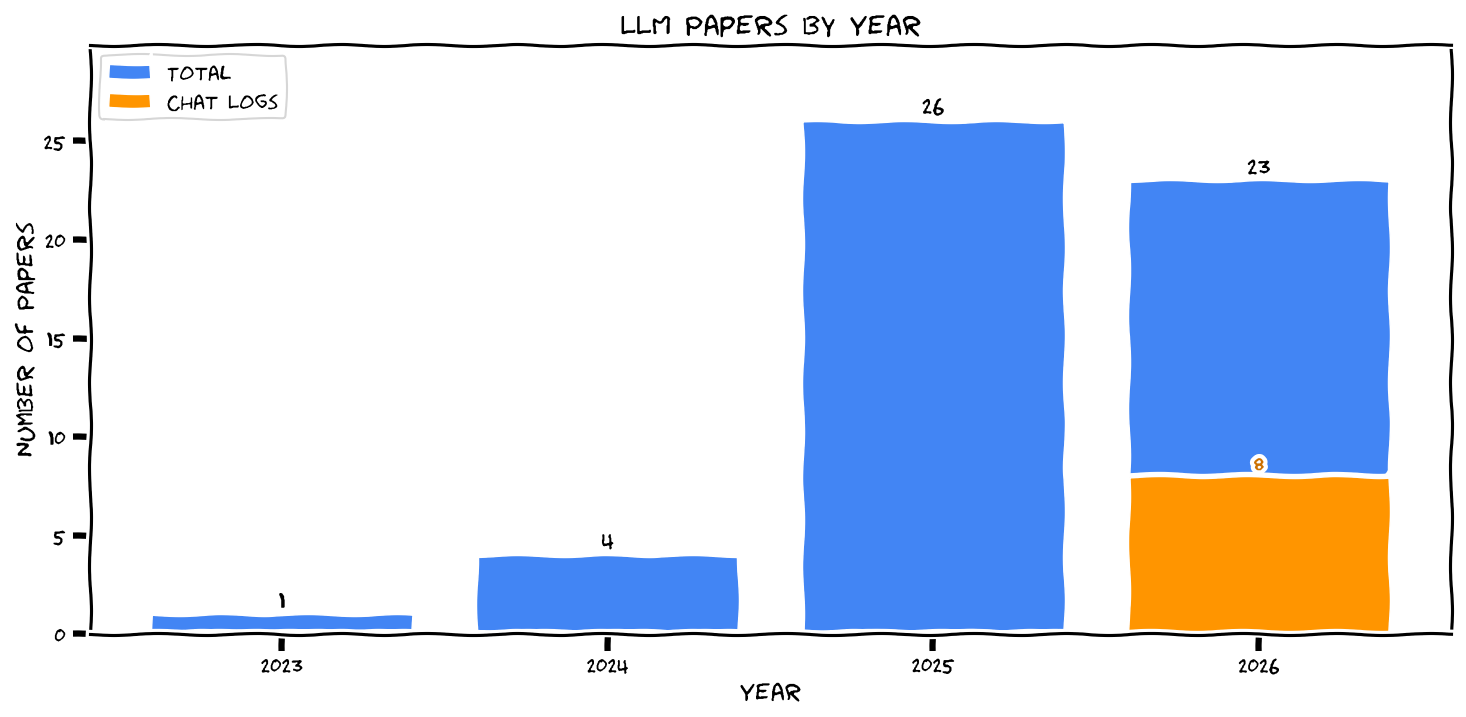
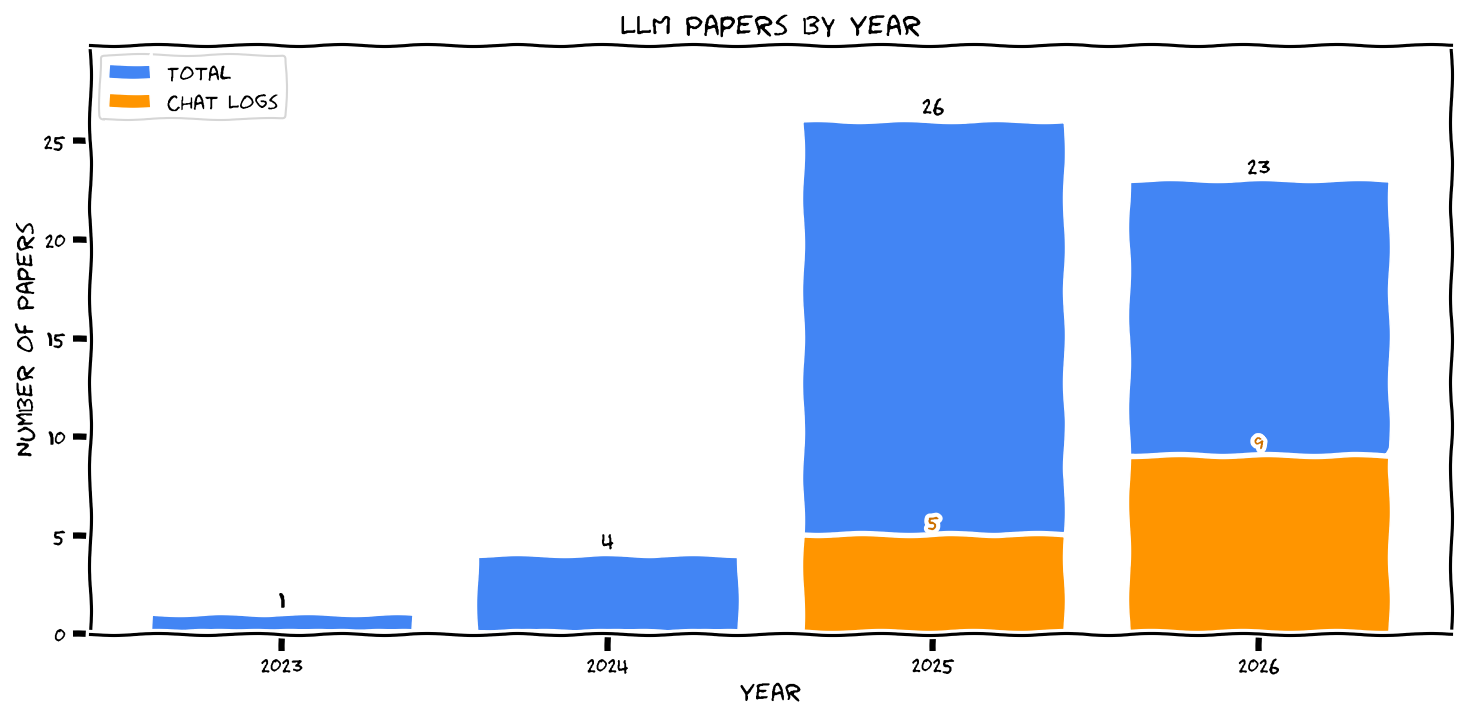
Add more LLM chat log links

Changed region(s): [[0.5218, 0.7057, 0.7367, 0.8898], [0.7674, 0.6137, 0.9516, 0.675]]

diff --git a/README.md b/README.md
@@ -17,11 +17,11 @@ See [`CONTRIBUTING.md`](https://github.com/seewoo5/awesome-ai-for-math/blob/main
 | **[A Machine Learning Approach That Beats Large Rubik's Cubes](https://arxiv.org/abs/2502.13266)** | [Graph Theory](./subjects/graph-theory.md), [Group Theory](./subjects/group-theory.md), [RL](./subjects/rl.md) | arXiv 2025 | [Code](https://github.com/cayleypy/cayleypy) |
 | **[A Systematization of the Wagner Framework: Graph Theory Conjectures and Reinforcement Learning](https://doi.org/10.1007/978-3-031-78977-9_21)** | [Graph Theory](./subjects/graph-theory.md), [RL](./subjects/rl.md) | Discovery Science 2025 | [Code](https://github.com/CuriosAI/graph_conjectures) [arXiv](https://arxiv.org/abs/2406.12667) |
 | **[ABC implies that Ramanujan's tau function misses almost all primes](https://arxiv.org/abs/2603.29970)** | [Number Theory](./subjects/number-theory.md), [ATP](./subjects/atp.md) | arXiv 2026 | [Code](https://github.com/AxiomMath/ramanujan-tau-misses-primes) |
-| **[Accelerating mathematical research with language models: A case study of an interaction with GPT-5-Pro on a convex analysis problem](https://arxiv.org/abs/2510.26647)** | [Analysis](./subjects/analysis.md), [LLM](./subjects/llm.md) | arXiv 2025 |  |
+| **[Accelerating mathematical research with language models: A case study of an interaction with GPT-5-Pro on a convex analysis problem](https://arxiv.org/abs/2510.26647)** | [Analysis](./subjects/analysis.md), [LLM](./subjects/llm.md) | arXiv 2025 | [Chat Logs](https://arxiv.org/abs/2510.26647) |
 | **[Advancing mathematics by guiding human intuition with AI](https://www.nature.com/articles/s41586-021-04086-x)** | [Knot Theory](./subjects/knot-theory.md), [Representation Theory](./subjects/representation-theory.md) | Nature 2021 | [Code](https://github.com/google-deepmind/mathematics_conjectures) |
 | **[Agentic Neurosymbolic Collaboration for Mathematical Discovery: A Case Study in Combinatorial Design](https://arxiv.org/abs/2603.08322)** | [Combinatorics](./subjects/combinatorics.md), [LLM](./subjects/llm.md), [ATP](./subjects/atp.md) | arXiv 2026 |  |
-| **[AI Mathematician as a Partner in Advancing Mathematical Discovery -- A Case Study in Homogenization Theory](https://arxiv.org/abs/2510.26380)** | [Analysis](./subjects/analysis.md), [LLM](./subjects/llm.md) | arXiv 2025 |  |
-| **[AI Mathematician: Towards Fully Automated Frontier Mathematical Research](https://arxiv.org/abs/2505.22451)** | [Analysis](./subjects/analysis.md), [LLM](./subjects/llm.md) | arXiv 2025 |  |
+| **[AI Mathematician as a Partner in Advancing Mathematical Discovery -- A Case Study in Homogenization Theory](https://arxiv.org/abs/2510.26380)** | [Analysis](./subjects/analysis.md), [LLM](./subjects/llm.md) | arXiv 2025 | [Chat Logs](https://arxiv.org/abs/2510.26380) |
+| **[AI Mathematician: Towards Fully Automated Frontier Mathematical Research](https://arxiv.org/abs/2505.22451)** | [Analysis](./subjects/analysis.md), [LLM](./subjects/llm.md) | arXiv 2025 | [Chat Logs](https://arxiv.org/abs/2505.22451) |
 | **[AI-driven research in pure mathematics and theoretical physics](https://www.nature.com/articles/s42254-024-00740-1)** | [Survey](./subjects/survey.md) | Nature Reviews Physics 2025 |  |
 | **[Aletheia tackles FirstProof autonomously](https://arxiv.org/abs/2602.21201)** | [LLM](./subjects/llm.md), [Benchmark](./subjects/benchmark.md) | arXiv 2026 | [Chat Logs](https://github.com/google-deepmind/superhuman/tree/main/aletheia) |
 | **[Algorithm Discovery With LLMs: Evolutionary Search Meets Reinforcement Learning](https://arxiv.org/abs/2504.05108)** | [Combinatorics](./subjects/combinatorics.md), [LLM](./subjects/llm.md), [RL](./subjects/rl.md) | arXiv 2025 | [Code](https://github.com/CLAIRE-Labo/EvoTune) |
@@ -44,13 +44,13 @@ See [`CONTRIBUTING.md`](https://github.com/seewoo5/awesome-ai-for-math/blob/main
 | **[Dead ends in square-free digit walks](https://arxiv.org/abs/2602.05095)** | [Number Theory](./subjects/number-theory.md), [ATP](./subjects/atp.md) | arXiv 2026 | [Code](https://github.com/AxiomMath/dead-ends) |
 | **[Deep Learning for Symbolic Mathematics](https://openreview.net/forum?id=S1eZYeHFDS)** | [Differential Equations](./subjects/differential-equations.md), [Symbolic Computation](./subjects/symbolic-computation.md), [Transformer](./subjects/transformer.md) | ICLR 2020 | [Code](https://github.com/facebookresearch/SymbolicMathematics) |
 | **[Discovery of Unstable Singularities](https://arxiv.org/abs/2509.14185)** | [Differential Equations](./subjects/differential-equations.md), [PINN](./subjects/pinn.md) | arXiv 2025 |  |
-| **[Early science acceleration experiments with GPT-5](https://arxiv.org/abs/2511.16072)** | [Combinatorics](./subjects/combinatorics.md), [Optimization Theory](./subjects/optimization-theory.md), [LLM](./subjects/llm.md) | arXiv 2025 |  |
+| **[Early science acceleration experiments with GPT-5](https://arxiv.org/abs/2511.16072)** | [Combinatorics](./subjects/combinatorics.md), [Optimization Theory](./subjects/optimization-theory.md), [LLM](./subjects/llm.md) | arXiv 2025 | [Chat Logs](https://arxiv.org/abs/2511.16072) |
 | **[Eigenweights for arithmetic Hirzebruch Proportionality](https://arxiv.org/abs/2601.23245)** | [Number Theory](./subjects/number-theory.md), [Representation Theory](./subjects/representation-theory.md), [LLM](./subjects/llm.md) | arXiv 2026 | [Chat Logs](https://github.com/google-deepmind/superhuman/tree/main/aletheia) |
 | **[Equality in Fill's spectral gap problem](https://arxiv.org/abs/2604.03937)** | [Combinatorics](./subjects/combinatorics.md), [LLM](./subjects/llm.md) | arXiv 2026 |  |
 | **[EternalMath: A Living Benchmark of Frontier Mathematics that Evolves with Human Discovery](https://arxiv.org/abs/2601.01400)** | [Benchmark](./subjects/benchmark.md), [LLM](./subjects/llm.md) | arXiv 2026 |  |
 | **[Even with AI, Bijection Discovery is Still Hard: The Opportunities and Challenges of OpenEvolve for Novel Bijection Construction](https://arxiv.org/abs/2511.20987)** | [Combinatorics](./subjects/combinatorics.md), [LLM](./subjects/llm.md) | arXiv 2025 |  |
 | **[Evolving Ranking Functions for Canonical Blow-Ups in Positive Characteristic](https://arxiv.org/abs/2602.06553)** | [Algebraic Geometry](./subjects/algebraic-geometry.md), [LLM](./subjects/llm.md) | arXiv 2026 |  |
-| **[Extremal descendant integrals on moduli spaces of curves: An inequality discovered and proved in collaboration with AI](https://arxiv.org/abs/2512.14575)** | [Algebraic Geometry](./subjects/algebraic-geometry.md), [ATP](./subjects/atp.md), [LLM](./subjects/llm.md) | arXiv 2025 | [Code](https://github.com/schmittj/balanced-vectors-blueprint) |
+| **[Extremal descendant integrals on moduli spaces of curves: An inequality discovered and proved in collaboration with AI](https://arxiv.org/abs/2512.14575)** | [Algebraic Geometry](./subjects/algebraic-geometry.md), [ATP](./subjects/atp.md), [LLM](./subjects/llm.md) | arXiv 2025 | [Code](https://github.com/schmittj/balanced-vectors-blueprint) [Chat Logs](https://arxiv.org/abs/2512.14575) |
 | **[Fel's Conjecture on Syzygies of Numerical Semigroups](https://arxiv.org/abs/2602.03716)** | [Combinatorics](./subjects/combinatorics.md), [Algebra](./subjects/algebra.md), [Number Theory](./subjects/number-theory.md), [ATP](./subjects/atp.md) | arXiv 2026 | [Code](https://github.com/AxiomMath/fel-polynomial) |
 | **[FIMO: A Challenge Formal Dataset for Automated Theorem Proving](https://arxiv.org/abs/2309.04295)** | [Benchmark](./subjects/benchmark.md), [ATP](./subjects/atp.md) | arXiv 2023 |  |
 | **[First Proof](https://arxiv.org/abs/2602.05192)** | [Benchmark](./subjects/benchmark.md), [LLM](./subjects/llm.md) | arXiv 2026 | [Website](https://1stproof.org/) |
@@ -133,7 +133,7 @@ See [`CONTRIBUTING.md`](https://github.com/seewoo5/awesome-ai-for-math/blob/main
 | **[R-equivalence on Cubic Surfaces I: Existing Cases with Non-Trivial Universal Equivalence](https://arxiv.org/abs/2603.19215)** | [Algebraic Geometry](./subjects/algebraic-geometry.md), [LLM](./subjects/llm.md) | arXiv 2026 |  |
 | **[Ranks of elliptic curves and deep neural networks](https://link.springer.com/article/10.1007/s40993-023-00462-w)** | [Number Theory](./subjects/number-theory.md), [CNN](./subjects/cnn.md) | Research in Number Theory 2023 | [Code](https://github.com/domagojvlah/deepellrank) |
 | **[RealMath: A Continuous Benchmark for Evaluating Language Models on Research-Level Mathematics](https://arxiv.org/abs/2505.12575)** | [Benchmark](./subjects/benchmark.md), [LLM](./subjects/llm.md) | NeurIPS 2025 |  |
-| **[Recursive-algebraic solution of the closed string tachyon vacuum equation](https://arxiv.org/abs/2603.29926)** | [Mathematical Physics](./subjects/mathematical-physics.md), [LLM](./subjects/llm.md) | arXiv 2026 | [Code](https://github.com/mk2427/csft-tachyon-vacuum) |
+| **[Recursive-algebraic solution of the closed string tachyon vacuum equation](https://arxiv.org/abs/2603.29926)** | [Mathematical Physics](./subjects/mathematical-physics.md), [LLM](./subjects/llm.md) | arXiv 2026 | [Code](https://github.com/mk2427/csft-tachyon-vacuum) [Chat Logs](https://github.com/mk2427/csft-tachyon-vacuum) |
 | **[Reinforced Generation of Combinatorial Structures: Hardness of Approximation](https://arxiv.org/abs/2509.18057)** | [Computational Complexity](./subjects/computational-complexity.md), [Combinatorics](./subjects/combinatorics.md), [LLM](./subjects/llm.md) | arXiv 2025 |  |
 | **[Reinforcement Learning the Chromatic Symmetric Function](https://arxiv.org/abs/2410.19189)** | [Graph Theory](./subjects/graph-theory.md), [RL](./subjects/rl.md) | arXiv 2024 | [Code](https://github.com/berczig/PositivityConjectures) |
 | **[Resolution of Erdős Problem #728: a writeup of Aristotle's Lean proof](https://arxiv.org/abs/2601.07421)** | [Number Theory](./subjects/number-theory.md), [LLM](./subjects/llm.md), [ATP](./subjects/atp.md) | arXiv 2026 |  |

diff --git a/subjects/llm.md b/subjects/llm.md
@@ -7,10 +7,10 @@ layout: default
 
 | Title | Subject(s) | Venue & Year | Links & Resources |
 | :--- | :--- | :--- | :--- |
-| **[Accelerating mathematical research with language models: A case study of an interaction with GPT-5-Pro on a convex analysis problem](https://arxiv.org/abs/2510.26647)** | [Analysis](analysis.md), [LLM](llm.md) | arXiv 2025 |  |
+| **[Accelerating mathematical research with language models: A case study of an interaction with GPT-5-Pro on a convex analysis problem](https://arxiv.org/abs/2510.26647)** | [Analysis](analysis.md), [LLM](llm.md) | arXiv 2025 | [Chat Logs](https://arxiv.org/abs/2510.26647) |
 | **[Agentic Neurosymbolic Collaboration for Mathematical Discovery: A Case Study in Combinatorial Design](https://arxiv.org/abs/2603.08322)** | [Combinatorics](combinatorics.md), [LLM](llm.md), [ATP](atp.md) | arXiv 2026 |  |
-| **[AI Mathematician as a Partner in Advancing Mathematical Discovery -- A Case Study in Homogenization Theory](https://arxiv.org/abs/2510.26380)** | [Analysis](analysis.md), [LLM](llm.md) | arXiv 2025 |  |
-| **[AI Mathematician: Towards Fully Automated Frontier Mathematical Research](https://arxiv.org/abs/2505.22451)** | [Analysis](analysis.md), [LLM](llm.md) | arXiv 2025 |  |
+| **[AI Mathematician as a Partner in Advancing Mathematical Discovery -- A Case Study in Homogenization Theory](https://arxiv.org/abs/2510.26380)** | [Analysis](analysis.md), [LLM](llm.md) | arXiv 2025 | [Chat Logs](https://arxiv.org/abs/2510.26380) |
+| **[AI Mathematician: Towards Fully Automated Frontier Mathematical Research](https://arxiv.org/abs/2505.22451)** | [Analysis](analysis.md), [LLM](llm.md) | arXiv 2025 | [Chat Logs](https://arxiv.org/abs/2505.22451) |
 | **[Aletheia tackles FirstProof autonomously](https://arxiv.org/abs/2602.21201)** | [LLM](llm.md), [Benchmark](benchmark.md) | arXiv 2026 | [Chat Logs](https://github.com/google-deepmind/superhuman/tree/main/aletheia) |
 | **[Algorithm Discovery With LLMs: Evolutionary Search Meets Reinforcement Learning](https://arxiv.org/abs/2504.05108)** | [Combinatorics](combinatorics.md), [LLM](llm.md), [RL](rl.md) | arXiv 2025 | [Code](https://github.com/CLAIRE-Labo/EvoTune) |
 | **[AlphaEvolve: A coding agent for scientific and algorithmic discovery](https://arxiv.org/abs/2506.13131)** | [Matrix Multiplication](matrix-multiplication.md), [Analysis](analysis.md), [Combinatorics](combinatorics.md), [Discrete Geometry](discrete-geometry.md), [LLM](llm.md) | arXiv 2025 | [Unofficial Code](https://github.com/codelion/openevolve) |
@@ -18,13 +18,13 @@ layout: default
 | **[Arithmetic volumes of moduli stacks of Shtukas](https://arxiv.org/abs/2601.18557)** | [Number Theory](number-theory.md), [Algebraic Geometry](algebraic-geometry.md), [LLM](llm.md) | arXiv 2026 | [Chat Logs](https://github.com/google-deepmind/superhuman/tree/main/aletheia) |
 | **[Counterexample to majority optimality in NICD with erasures](https://arxiv.org/abs/2510.20013)** | [Analysis](analysis.md), [LLM](llm.md) | arXiv 2025 |  |
 | **[Counting partial Hadamard matrices in the cubic regime](https://arxiv.org/abs/2603.30013)** | [Combinatorics](combinatorics.md), [LLM](llm.md) | arXiv 2026 |  |
-| **[Early science acceleration experiments with GPT-5](https://arxiv.org/abs/2511.16072)** | [Combinatorics](combinatorics.md), [Optimization Theory](optimization-theory.md), [LLM](llm.md) | arXiv 2025 |  |
+| **[Early science acceleration experiments with GPT-5](https://arxiv.org/abs/2511.16072)** | [Combinatorics](combinatorics.md), [Optimization Theory](optimization-theory.md), [LLM](llm.md) | arXiv 2025 | [Chat Logs](https://arxiv.org/abs/2511.16072) |
 | **[Eigenweights for arithmetic Hirzebruch Proportionality](https://arxiv.org/abs/2601.23245)** | [Number Theory](number-theory.md), [Representation Theory](representation-theory.md), [LLM](llm.md) | arXiv 2026 | [Chat Logs](https://github.com/google-deepmind/superhuman/tree/main/aletheia) |
 | **[Equality in Fill's spectral gap problem](https://arxiv.org/abs/2604.03937)** | [Combinatorics](combinatorics.md), [LLM](llm.md) | arXiv 2026 |  |
 | **[EternalMath: A Living Benchmark of Frontier Mathematics that Evolves with Human Discovery](https://arxiv.org/abs/2601.01400)** | [Benchmark](benchmark.md), [LLM](llm.md) | arXiv 2026 |  |
 | **[Even with AI, Bijection Discovery is Still Hard: The Opportunities and Challenges of OpenEvolve for Novel Bijection Construction](https://arxiv.org/abs/2511.20987)** | [Combinatorics](combinatorics.md), [LLM](llm.md) | arXiv 2025 |  |
 | **[Evolving Ranking Functions for Canonical Blow-Ups in Positive Characteristic](https://arxiv.org/abs/2602.06553)** | [Algebraic Geometry](algebraic-geometry.md), [LLM](llm.md) | arXiv 2026 |  |
-| **[Extremal descendant integrals on moduli spaces of curves: An inequality discovered and proved in collaboration with AI](https://arxiv.org/abs/2512.14575)** | [Algebraic Geometry](algebraic-geometry.md), [ATP](atp.md), [LLM](llm.md) | arXiv 2025 | [Code](https://github.com/schmittj/balanced-vectors-blueprint) |
+| **[Extremal descendant integrals on moduli spaces of curves: An inequality discovered and proved in collaboration with AI](https://arxiv.org/abs/2512.14575)** | [Algebraic Geometry](algebraic-geometry.md), [ATP](atp.md), [LLM](llm.md) | arXiv 2025 | [Code](https://github.com/schmittj/balanced-vectors-blueprint) [Chat Logs](https://arxiv.org/abs/2512.14575) |
 | **[First Proof](https://arxiv.org/abs/2602.05192)** | [Benchmark](benchmark.md), [LLM](llm.md) | arXiv 2026 | [Website](https://1stproof.org/) |
 | **[Forbidden Sidon subsets of perfect difference sets, featuring a human-assisted proof](https://arxiv.org/abs/2510.19804)** | [Combinatorics](combinatorics.md), [Number Theory](number-theory.md), [LLM](llm.md), [ATP](atp.md) | arXiv 2025 | [Code](https://borisalexeev.com/papers/Erdos707.lean) |
 | **[FormalMATH: Benchmarking Formal Mathematical Reasoning of Large Language Models](https://arxiv.org/abs/2505.02735)** | [Benchmark](benchmark.md), [ATP](atp.md), [LLM](llm.md) | arXiv 2025 | [Website](https://spherelab.ai/FormalMATH/) |
@@ -50,7 +50,7 @@ layout: default
 | **[Putnam-AXIOM: A Functional and Static Benchmark for Measuring Higher Level Mathematical Reasoning in LLMs](https://arxiv.org/abs/2508.08292)** | [Benchmark](benchmark.md), [LLM](llm.md) | arXiv 2025 |  |
 | **[R-equivalence on Cubic Surfaces I: Existing Cases with Non-Trivial Universal Equivalence](https://arxiv.org/abs/2603.19215)** | [Algebraic Geometry](algebraic-geometry.md), [LLM](llm.md) | arXiv 2026 |  |
 | **[RealMath: A Continuous Benchmark for Evaluating Language Models on Research-Level Mathematics](https://arxiv.org/abs/2505.12575)** | [Benchmark](benchmark.md), [LLM](llm.md) | NeurIPS 2025 |  |
-| **[Recursive-algebraic solution of the closed string tachyon vacuum equation](https://arxiv.org/abs/2603.29926)** | [Mathematical Physics](mathematical-physics.md), [LLM](llm.md) | arXiv 2026 | [Code](https://github.com/mk2427/csft-tachyon-vacuum) |
+| **[Recursive-algebraic solution of the closed string tachyon vacuum equation](https://arxiv.org/abs/2603.29926)** | [Mathematical Physics](mathematical-physics.md), [LLM](llm.md) | arXiv 2026 | [Code](https://github.com/mk2427/csft-tachyon-vacuum) [Chat Logs](https://github.com/mk2427/csft-tachyon-vacuum) |
 | **[Reinforced Generation of Combinatorial Structures: Hardness of Approximation](https://arxiv.org/abs/2509.18057)** | [Computational Complexity](computational-complexity.md), [Combinatorics](combinatorics.md), [LLM](llm.md) | arXiv 2025 |  |
 | **[Resolution of Erdős Problem #728: a writeup of Aristotle's Lean proof](https://arxiv.org/abs/2601.07421)** | [Number Theory](number-theory.md), [LLM](llm.md), [ATP](atp.md) | arXiv 2026 |  |
 | **[Semi-Autonomous Mathematics Discovery with Gemini: A Case Study on the Erdős Problems](https://arxiv.org/abs/2601.22401)** | [Combinatorics](combinatorics.md), [Number Theory](number-theory.md), [LLM](llm.md) | arXiv 2026 | [Chat Logs](https://github.com/google-deepmind/superhuman/tree/main/aletheia) |

diff --git a/subjects/algebraic-geometry.md b/subjects/algebraic-geometry.md
@@ -11,7 +11,7 @@ layout: default
 | **[Arithmetic volumes of moduli stacks of Shtukas](https://arxiv.org/abs/2601.18557)** | [Number Theory](number-theory.md), [Algebraic Geometry](algebraic-geometry.md), [LLM](llm.md) | arXiv 2026 | [Chat Logs](https://github.com/google-deepmind/superhuman/tree/main/aletheia) |
 | **[Can Transformers Do Enumerative Geometry?](https://proceedings.iclr.cc/paper_files/paper/2025/file/aee2f03ecb2b2c1ea55a43946b651cfd-Paper-Conference.pdf)** | [Algebraic Geometry](algebraic-geometry.md), [Interpretability](interpretability.md), [Transformer](transformer.md) | ICLR 2025 | [Code](https://github.com/Baran-phys/DynamicFormer) |
 | **[Evolving Ranking Functions for Canonical Blow-Ups in Positive Characteristic](https://arxiv.org/abs/2602.06553)** | [Algebraic Geometry](algebraic-geometry.md), [LLM](llm.md) | arXiv 2026 |  |
-| **[Extremal descendant integrals on moduli spaces of curves: An inequality discovered and proved in collaboration with AI](https://arxiv.org/abs/2512.14575)** | [Algebraic Geometry](algebraic-geometry.md), [ATP](atp.md), [LLM](llm.md) | arXiv 2025 | [Code](https://github.com/schmittj/balanced-vectors-blueprint) |
+| **[Extremal descendant integrals on moduli spaces of curves: An inequality discovered and proved in collaboration with AI](https://arxiv.org/abs/2512.14575)** | [Algebraic Geometry](algebraic-geometry.md), [ATP](atp.md), [LLM](llm.md) | arXiv 2025 | [Code](https://github.com/schmittj/balanced-vectors-blueprint) [Chat Logs](https://arxiv.org/abs/2512.14575) |
 | **[Geometric Generality of Transformer-Based Gröbner Basis Computation](https://doi.org/10.1090/conm/835/16758)** | [Algebraic Geometry](algebraic-geometry.md), [Transformer](transformer.md) | Artificial Intelligence and Mathematics Research 2026 | [arXiv](https://arxiv.org/abs/2504.12465) |
 | **[Hilbert series, machine learning, and applications to physics](https://www.sciencedirect.com/science/article/pii/S0370269322001009)** | [Algebraic Geometry](algebraic-geometry.md), [Mathematical Physics](mathematical-physics.md), [Neural Network](neural-network.md) | Physics Letters B 2024 | [Code](https://github.com/edhirst/HilbertSeriesML) |
 | **[Learning Fast Monomial Orders for Gröbner Basis Computations](https://arxiv.org/abs/2602.02972)** | [Algebraic Geometry](algebraic-geometry.md), [Symbolic Computation](symbolic-computation.md), [RL](rl.md) | arXiv 2026 | [Code](https://github.com/codesubmission2026/code-submission) |

diff --git a/subjects/analysis.md b/subjects/analysis.md
@@ -7,9 +7,9 @@ layout: default
 
 | Title | Subject(s) | Venue & Year | Links & Resources |
 | :--- | :--- | :--- | :--- |
-| **[Accelerating mathematical research with language models: A case study of an interaction with GPT-5-Pro on a convex analysis problem](https://arxiv.org/abs/2510.26647)** | [Analysis](analysis.md), [LLM](llm.md) | arXiv 2025 |  |
-| **[AI Mathematician as a Partner in Advancing Mathematical Discovery -- A Case Study in Homogenization Theory](https://arxiv.org/abs/2510.26380)** | [Analysis](analysis.md), [LLM](llm.md) | arXiv 2025 |  |
-| **[AI Mathematician: Towards Fully Automated Frontier Mathematical Research](https://arxiv.org/abs/2505.22451)** | [Analysis](analysis.md), [LLM](llm.md) | arXiv 2025 |  |
+| **[Accelerating mathematical research with language models: A case study of an interaction with GPT-5-Pro on a convex analysis problem](https://arxiv.org/abs/2510.26647)** | [Analysis](analysis.md), [LLM](llm.md) | arXiv 2025 | [Chat Logs](https://arxiv.org/abs/2510.26647) |
+| **[AI Mathematician as a Partner in Advancing Mathematical Discovery -- A Case Study in Homogenization Theory](https://arxiv.org/abs/2510.26380)** | [Analysis](analysis.md), [LLM](llm.md) | arXiv 2025 | [Chat Logs](https://arxiv.org/abs/2510.26380) |
+| **[AI Mathematician: Towards Fully Automated Frontier Mathematical Research](https://arxiv.org/abs/2505.22451)** | [Analysis](analysis.md), [LLM](llm.md) | arXiv 2025 | [Chat Logs](https://arxiv.org/abs/2505.22451) |
 | **[AlphaEvolve: A coding agent for scientific and algorithmic discovery](https://arxiv.org/abs/2506.13131)** | [Matrix Multiplication](matrix-multiplication.md), [Analysis](analysis.md), [Combinatorics](combinatorics.md), [Discrete Geometry](discrete-geometry.md), [LLM](llm.md) | arXiv 2025 | [Unofficial Code](https://github.com/codelion/openevolve) |
 | **[Counterexample to majority optimality in NICD with erasures](https://arxiv.org/abs/2510.20013)** | [Analysis](analysis.md), [LLM](llm.md) | arXiv 2025 |  |
 | **[Mathematical exploration and discovery at scale](https://arxiv.org/abs/2511.02864)** | [Combinatorics](combinatorics.md), [Analysis](analysis.md), [Number Theory](number-theory.md), [Discrete Geometry](discrete-geometry.md), [LLM](llm.md) | arXiv 2025 | [Code](https://github.com/google-deepmind/alphaevolve_repository_of_problems) |

diff --git a/subjects/atp.md b/subjects/atp.md
@@ -12,7 +12,7 @@ layout: default
 | **[Almost all primes are partially regular](https://arxiv.org/abs/2602.05090)** | [Number Theory](number-theory.md), [ATP](atp.md) | arXiv 2026 | [Code](https://github.com/AxiomMath/partial-regularity) |
 | **[Aristotle: IMO-level Automated Theorem Proving](https://arxiv.org/abs/2510.01346)** | [ATP](atp.md), [LLM](llm.md) | arXiv 2025 |  |
 | **[Dead ends in square-free digit walks](https://arxiv.org/abs/2602.05095)** | [Number Theory](number-theory.md), [ATP](atp.md) | arXiv 2026 | [Code](https://github.com/AxiomMath/dead-ends) |
-| **[Extremal descendant integrals on moduli spaces of curves: An inequality discovered and proved in collaboration with AI](https://arxiv.org/abs/2512.14575)** | [Algebraic Geometry](algebraic-geometry.md), [ATP](atp.md), [LLM](llm.md) | arXiv 2025 | [Code](https://github.com/schmittj/balanced-vectors-blueprint) |
+| **[Extremal descendant integrals on moduli spaces of curves: An inequality discovered and proved in collaboration with AI](https://arxiv.org/abs/2512.14575)** | [Algebraic Geometry](algebraic-geometry.md), [ATP](atp.md), [LLM](llm.md) | arXiv 2025 | [Code](https://github.com/schmittj/balanced-vectors-blueprint) [Chat Logs](https://arxiv.org/abs/2512.14575) |
 | **[Fel's Conjecture on Syzygies of Numerical Semigroups](https://arxiv.org/abs/2602.03716)** | [Combinatorics](combinatorics.md), [Algebra](algebra.md), [Number Theory](number-theory.md), [ATP](atp.md) | arXiv 2026 | [Code](https://github.com/AxiomMath/fel-polynomial) |
 | **[FIMO: A Challenge Formal Dataset for Automated Theorem Proving](https://arxiv.org/abs/2309.04295)** | [Benchmark](benchmark.md), [ATP](atp.md) | arXiv 2023 |  |
 | **[Forbidden Sidon subsets of perfect difference sets, featuring a human-assisted proof](https://arxiv.org/abs/2510.19804)** | [Combinatorics](combinatorics.md), [Number Theory](number-theory.md), [LLM](llm.md), [ATP](atp.md) | arXiv 2025 | [Code](https://borisalexeev.com/papers/Erdos707.lean) |

diff --git a/subjects/combinatorics.md b/subjects/combinatorics.md
@@ -12,7 +12,7 @@ layout: default
 | **[AlphaEvolve: A coding agent for scientific and algorithmic discovery](https://arxiv.org/abs/2506.13131)** | [Matrix Multiplication](matrix-multiplication.md), [Analysis](analysis.md), [Combinatorics](combinatorics.md), [Discrete Geometry](discrete-geometry.md), [LLM](llm.md) | arXiv 2025 | [Unofficial Code](https://github.com/codelion/openevolve) |
 | **[Artificial intelligence and machine learning generated conjectures with TxGraffiti](https://arxiv.org/abs/2407.02731)** | [Graph Theory](graph-theory.md), [Combinatorics](combinatorics.md) | arXiv 2024 | [Code](https://github.com/RandyRDavila/TxGraffiti2) |
 | **[Counting partial Hadamard matrices in the cubic regime](https://arxiv.org/abs/2603.30013)** | [Combinatorics](combinatorics.md), [LLM](llm.md) | arXiv 2026 |  |
-| **[Early science acceleration experiments with GPT-5](https://arxiv.org/abs/2511.16072)** | [Combinatorics](combinatorics.md), [Optimization Theory](optimization-theory.md), [LLM](llm.md) | arXiv 2025 |  |
+| **[Early science acceleration experiments with GPT-5](https://arxiv.org/abs/2511.16072)** | [Combinatorics](combinatorics.md), [Optimization Theory](optimization-theory.md), [LLM](llm.md) | arXiv 2025 | [Chat Logs](https://arxiv.org/abs/2511.16072) |
 | **[Equality in Fill's spectral gap problem](https://arxiv.org/abs/2604.03937)** | [Combinatorics](combinatorics.md), [LLM](llm.md) | arXiv 2026 |  |
 | **[Even with AI, Bijection Discovery is Still Hard: The Opportunities and Challenges of OpenEvolve for Novel Bijection Construction](https://arxiv.org/abs/2511.20987)** | [Combinatorics](combinatorics.md), [LLM](llm.md) | arXiv 2025 |  |
 | **[Fel's Conjecture on Syzygies of Numerical Semigroups](https://arxiv.org/abs/2602.03716)** | [Combinatorics](combinatorics.md), [Algebra](algebra.md), [Number Theory](number-theory.md), [ATP](atp.md) | arXiv 2026 | [Code](https://github.com/AxiomMath/fel-polynomial) |

diff --git a/subjects/mathematical-physics.md b/subjects/mathematical-physics.md
@@ -20,5 +20,5 @@ layout: default
 | **[Machine-learning dessins d'enfants: explorations via modular and Seiberg–Witten curves](https://iopscience.iop.org/article/10.1088/1751-8121/abbc4f/meta?casa_token=cZ63RVRdvnsAAAAA:xnYl-Q3AxTTiLmSVpagIJDplLlUaR5it-7OUQOgn4PFXZ_PzvWQAjkYqL3nAd4XuY1HznxsH7XN4D-ZEkrXNvRYBxc5a)** | [Algebraic Geometry](algebraic-geometry.md), [Mathematical Physics](mathematical-physics.md) | Journal of Physics A 2021 |  |
 | **[Neural network approximations for Calabi-Yau metrics](https://link.springer.com/article/10.1007/JHEP08(2022)105)** | [Mathematical Physics](mathematical-physics.md), [Neural Network](neural-network.md) | JHEP 2022 |  |
 | **[New Calabi–Yau manifolds from genetic algorithms](https://www.sciencedirect.com/science/article/pii/S0370269324000625)** | [Algebraic Geometry](algebraic-geometry.md), [Mathematical Physics](mathematical-physics.md), [Genetic Algorithm](genetic-algorithm.md) | Physics Letters B 2024 |  |
-| **[Recursive-algebraic solution of the closed string tachyon vacuum equation](https://arxiv.org/abs/2603.29926)** | [Mathematical Physics](mathematical-physics.md), [LLM](llm.md) | arXiv 2026 | [Code](https://github.com/mk2427/csft-tachyon-vacuum) |
+| **[Recursive-algebraic solution of the closed string tachyon vacuum equation](https://arxiv.org/abs/2603.29926)** | [Mathematical Physics](mathematical-physics.md), [LLM](llm.md) | arXiv 2026 | [Code](https://github.com/mk2427/csft-tachyon-vacuum) [Chat Logs](https://github.com/mk2427/csft-tachyon-vacuum) |
 | **[Rigor with Machine Learning from Field Theory to the Poincaré Conjecture](https://www.nature.com/articles/s42254-024-00709-0)** | [Geometry](geometry.md), [Mathematical Physics](mathematical-physics.md) | Nature Reviews Physics 2024 |  |

diff --git a/subjects/optimization-theory.md b/subjects/optimization-theory.md
@@ -7,6 +7,6 @@ layout: default
 
 | Title | Subject(s) | Venue & Year | Links & Resources |
 | :--- | :--- | :--- | :--- |
-| **[Early science acceleration experiments with GPT-5](https://arxiv.org/abs/2511.16072)** | [Combinatorics](combinatorics.md), [Optimization Theory](optimization-theory.md), [LLM](llm.md) | arXiv 2025 |  |
+| **[Early science acceleration experiments with GPT-5](https://arxiv.org/abs/2511.16072)** | [Combinatorics](combinatorics.md), [Optimization Theory](optimization-theory.md), [LLM](llm.md) | arXiv 2025 | [Chat Logs](https://arxiv.org/abs/2511.16072) |
 | **[Point Convergence of Nesterov's Accelerated Gradient Method: An AI-Assisted Proof](https://arxiv.org/abs/2510.23513)** | [Optimization Theory](optimization-theory.md), [LLM](llm.md) | arXiv 2025 |  |
 | **[The Optimist: Towards Fully Automated Graph Theory Research](https://arxiv.org/abs/2411.09158)** | [Graph Theory](graph-theory.md), [Optimization Theory](optimization-theory.md) | arXiv 2024 | [Code](https://github.com/RandyRDavila/The-Optimist) |
